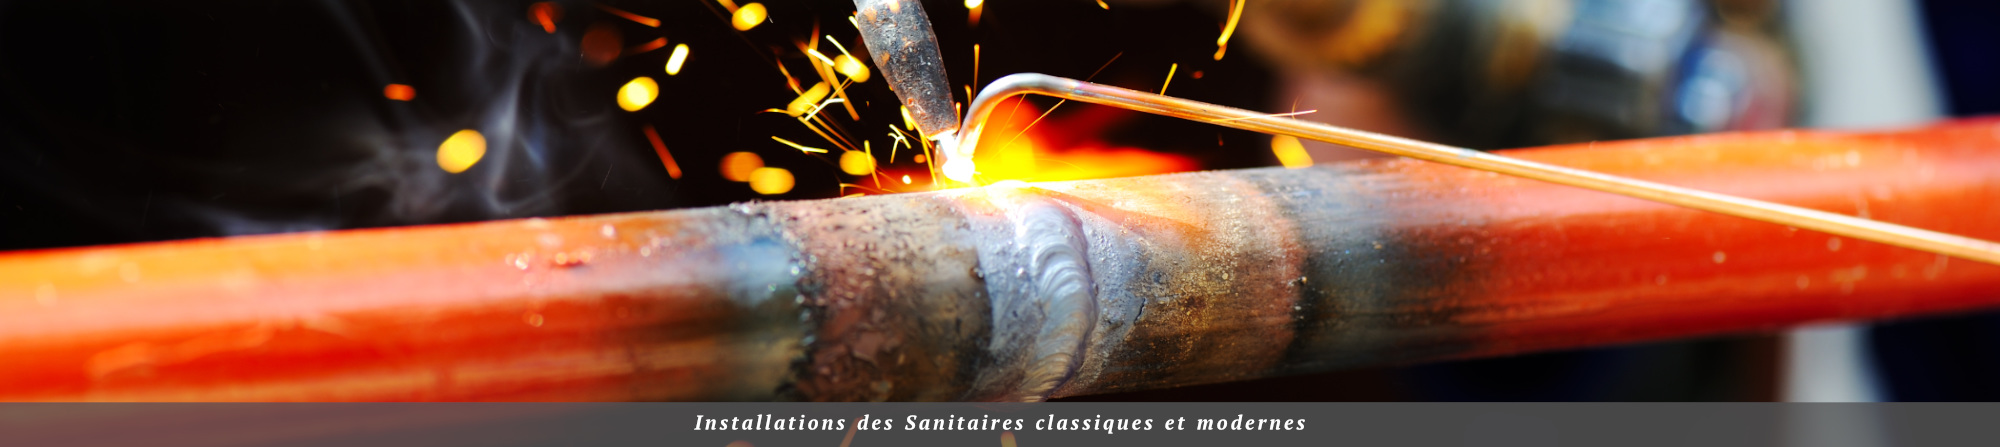
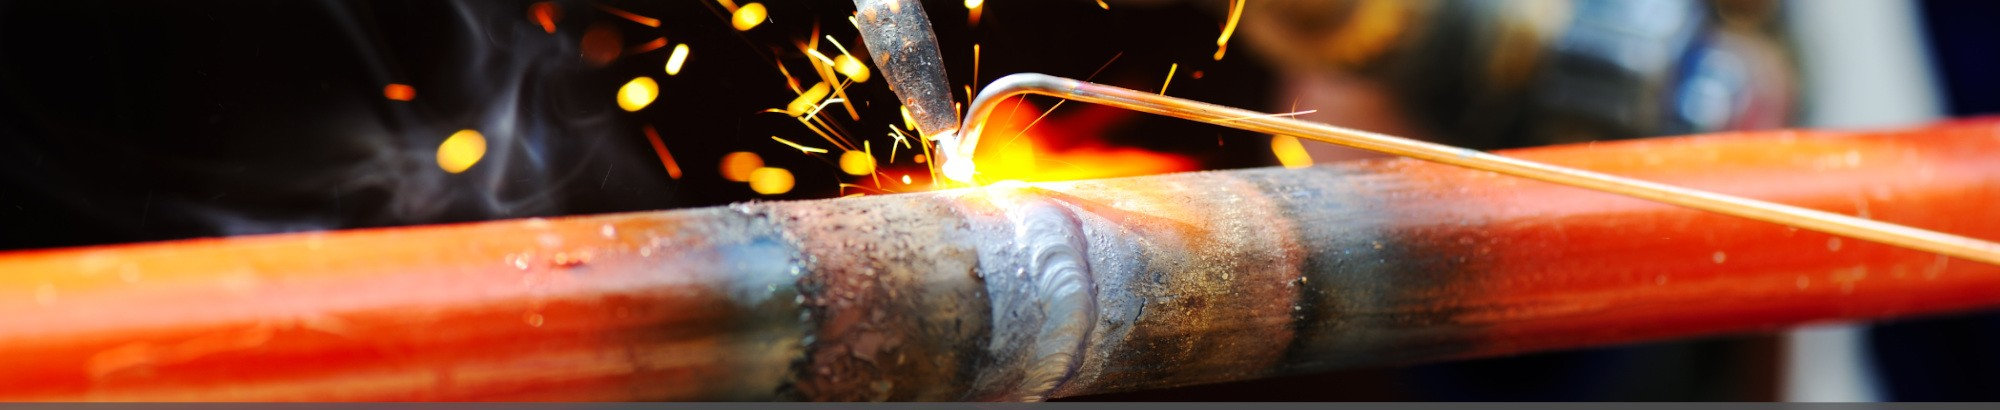
fixed 'sanitaires' bug

diff --git a/services/sanitaires.html b/services/sanitaires.html
@@ -158,7 +158,7 @@
     </nav>
 
     <!--Home Sections-->
-    <section id="home" class="home bg-black fix" style="background: url('../assets/images/salles-de-bains/cover.jpg') no-repeat scroll center center;background-size: cover;">
+    <section id="home" class="home bg-black fix" style="background: url('../assets/images/sanitaires/cover.jpg') no-repeat scroll center center;background-size: cover;">
       <div class="overlay"></div>
       <div class="container">
         <div class="row">
@@ -166,7 +166,7 @@
             <div class="col-md-12">
               <div class="slid_item">
                 <div class="home_text ">
-                  <h1 class="text-white">Notre spécialité la conception et l'installation des salles de bains.</h1>
+                  <h1 class="text-white">Installation des Sanitaires classiques et modernes.</h1>
                 </div>
                 <div class="home_btns m-top-40">
                   <a href="../demande-offre.html" class="btn btn-primary m-top-20">Demander une offre</a>
@@ -217,20 +217,20 @@
               <br>
               <br>
               <div class="row" id="lightgallery">
-                <div class="col-xs-12 col-sm-2 col-sm-offset-1" data-src="../assets/images/salles-de-bains/1.jpg">
-                  <img src="../assets/images/salles-de-bains/1.jpg" />
+                <div class="col-xs-12 col-sm-2 col-sm-offset-1" data-src="../assets/images/sanitaires/1.jpg">
+                  <img src="../assets/images/sanitaires/1.jpg" />
                 </div>
-                <div class="col-xs-12 col-sm-2" data-src="../assets/images/salles-de-bains/2.jpg">
-                  <img src="../assets/images/salles-de-bains/2.jpg" />
+                <div class="col-xs-12 col-sm-2" data-src="../assets/images/sanitaires/2.jpg">
+                  <img src="../assets/images/sanitaires/2.jpg" />
                 </div>
-                <div class="col-xs-12 col-sm-2" data-src="../assets/images/salles-de-bains/3.jpg">
-                  <img src="../assets/images/salles-de-bains/3.jpg" />
+                <div class="col-xs-12 col-sm-2" data-src="../assets/images/sanitaires/3.jpg">
+                  <img src="../assets/images/sanitaires/3.jpg" />
                 </div>
-                <div class="col-xs-12 col-sm-2" data-src="../assets/images/salles-de-bains/4.jpg">
-                  <img src="../assets/images/salles-de-bains/4.jpg" />
+                <div class="col-xs-12 col-sm-2" data-src="../assets/images/sanitaires/4.jpg">
+                  <img src="../assets/images/sanitaires/4.jpg" />
                 </div>
-                <div class="col-xs-12 col-sm-2" data-src="../assets/images/salles-de-bains/5.jpg">
-                  <img src="../assets/images/salles-de-bains/5.jpg" />
+                <div class="col-xs-12 col-sm-2" data-src="../assets/images/sanitaires/5.jpg">
+                  <img src="../assets/images/sanitaires/5.jpg" />
                 </div>
               </div>
             </div>
